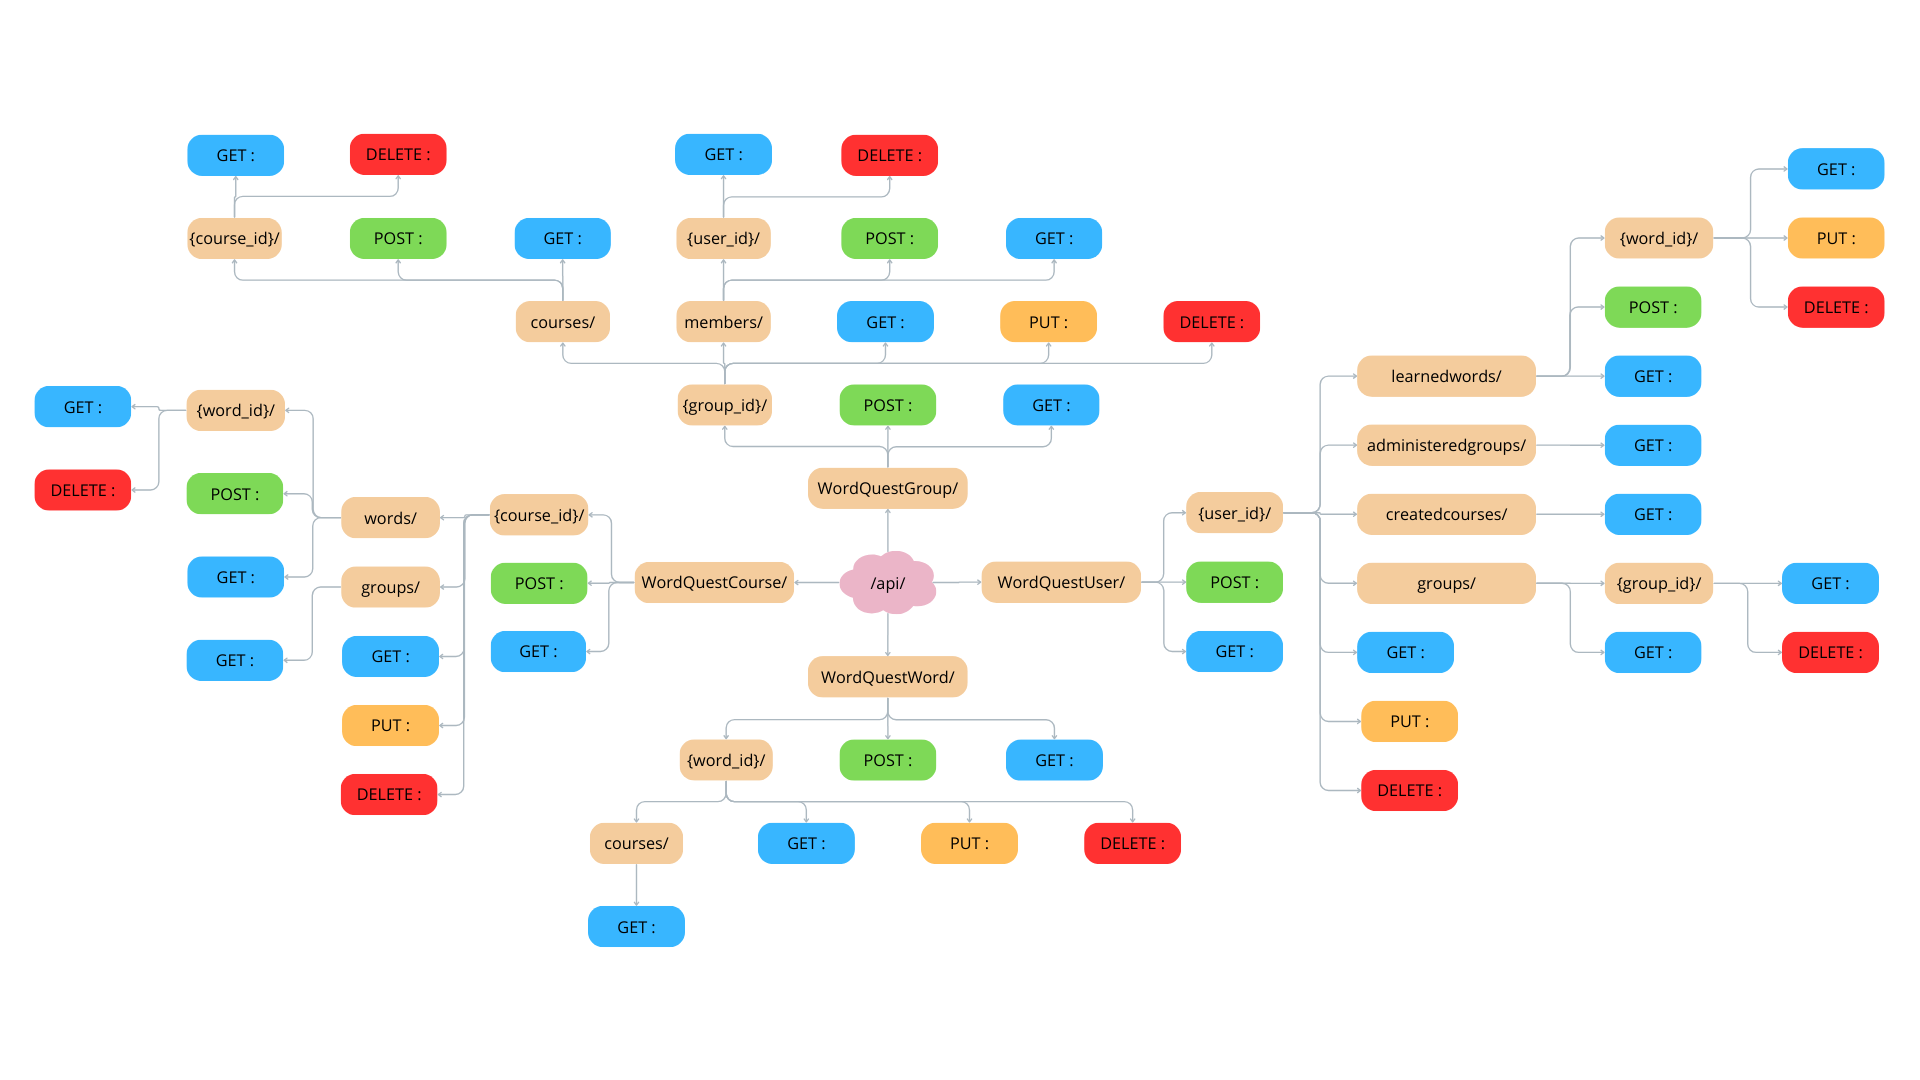
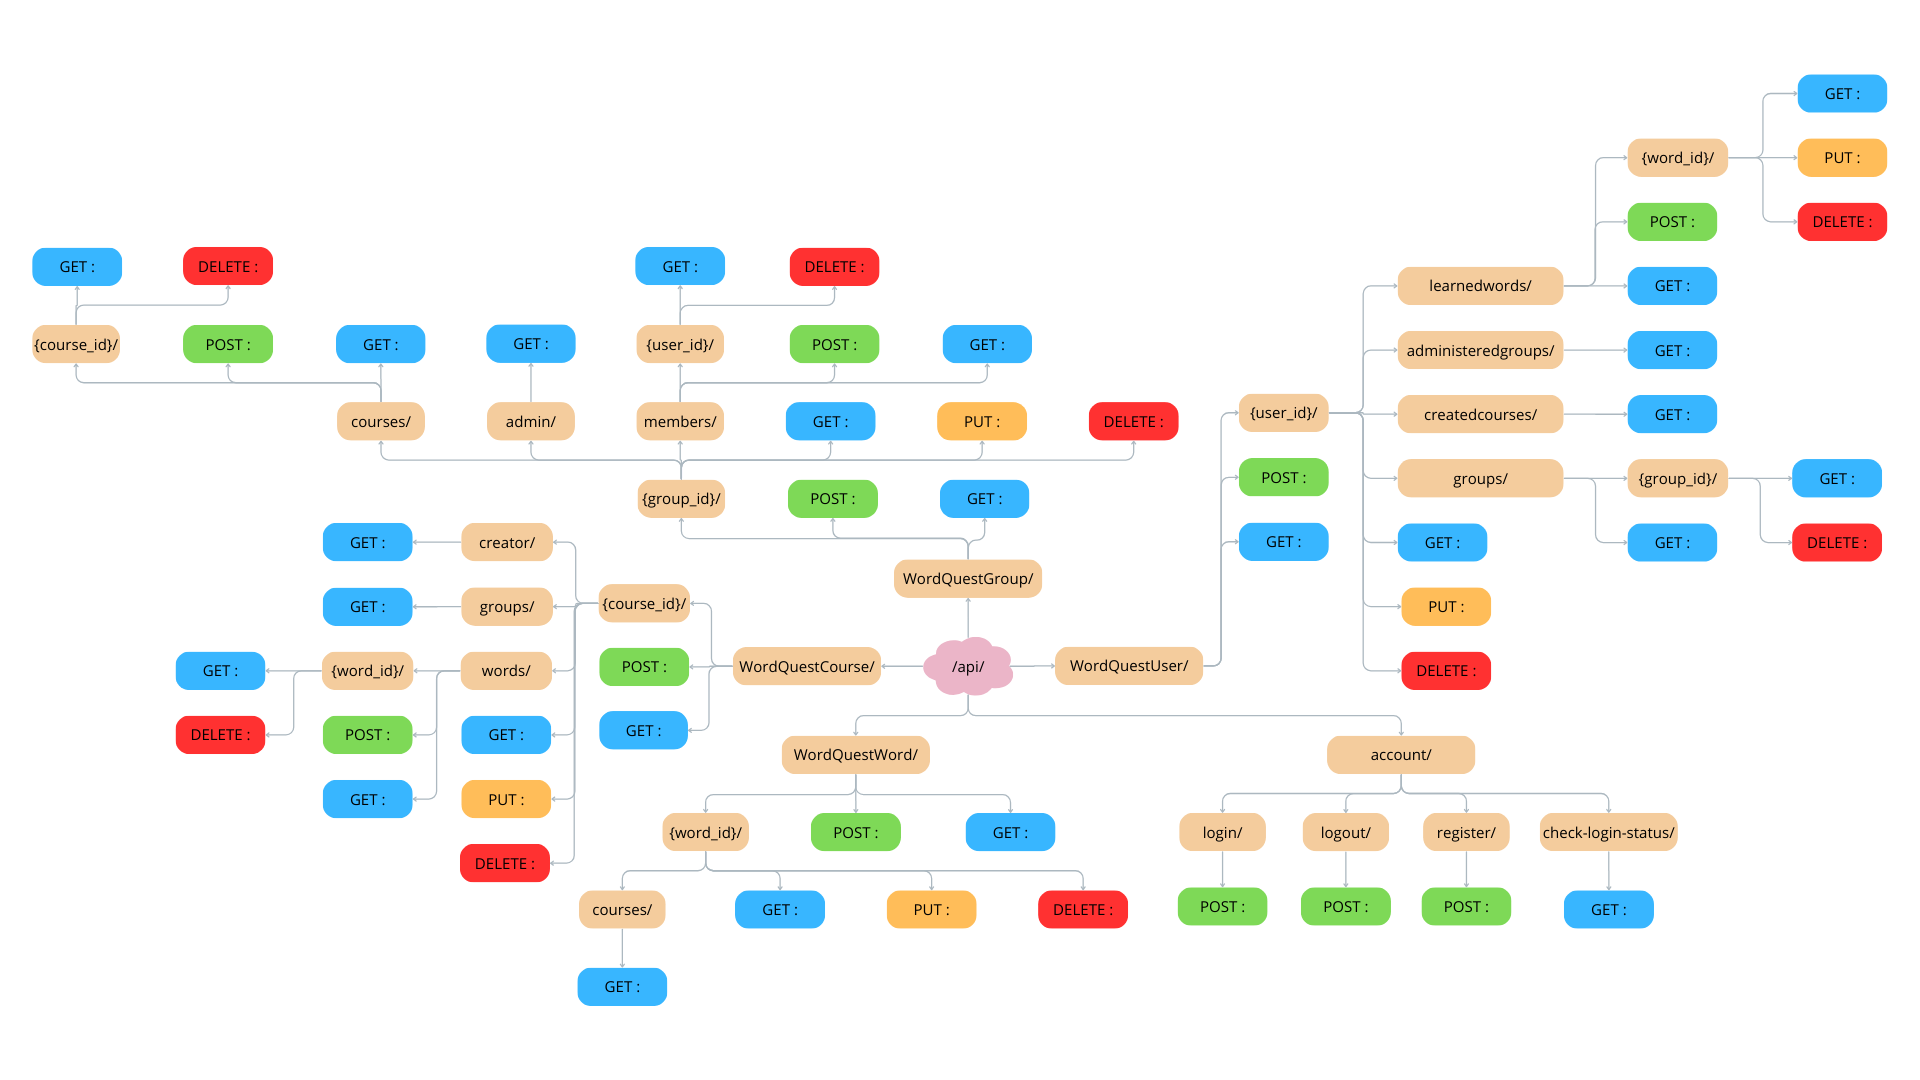
le dernier de la journee

Changed region(s): [[0.0, 0.0611, 1.0, 0.9472]]

diff --git a/Documentation/Documentation_projet.md b/Documentation/Documentation_projet.md
@@ -34,6 +34,11 @@ Avec WordQuest, explorez un monde virtuel rempli de défis linguistiques et de q
 
 ## Fonctionnalités
 -   ### Fonctionnalités minimales
+    -   Connexion Sécurisée
+    -   API fonctionnelle
+    -   Visualisation du niveau par mot
+ 
+-   ### Fonctionnalités optimales
     -   Création et Gestion de Groupes
     -   Ajout de Cours (de listes de mots)
     -   Niveaux d'Apprentissage par Mots
@@ -46,7 +51,7 @@ Avec WordQuest, explorez un monde virtuel rempli de défis linguistiques et de q
 
 ## Stack et Technologies
 
--   ### Langages de Progammation
+-   ### Langages de Programmation
     -   C# : développement de l'API
     - JavaScript : développement front-end et lien entre HTML et API
 
@@ -80,7 +85,7 @@ Avec WordQuest, explorez un monde virtuel rempli de défis linguistiques et de q
 | 20/05 au 26/05 | Mise en place du serveur IIS et certifications pour le https                                          | Recherche sur la mise en place d'une API ASP.NET et schéatisation de l'API |
 | 27/05 au 02/06 | Documentation du serveur                                                                              | Mise en place de l'API et debug                                            |
 | 03/06 au 09/06 | Utilisation de Docker pour la base de donnée                                                          | Mise en place des fonctionnalités de l'application web                     |
-| 10/06 au 14/06 | Debug                                                                                                 | Maquette + jolie front                                                     |
+| 10/06 au 14/06 | Debug                                                                                                 | Debug                                           |
 
 -   ### Rendu + Oral le 14/06
 
@@ -91,6 +96,9 @@ Avec WordQuest, explorez un monde virtuel rempli de défis linguistiques et de q
  -  ### Structure de la DataBase
  ![Structure de la DataBase](../WordQuestDB/schema_db.png)
  -  ### Diagramme de l'API 
- ![Diagramme de l'API](DiagrammeWordQuestAPI.png)
- -  ### Diagramme UML ou MCD
+ ![Diagramme de l'API](images/DiagrammeWordQuestAPI.png)
+-  ### Schéma de l'infrastructure
+ ![Diagramme de l'API](images/SchemaInfra.png)
+
+ 
 
